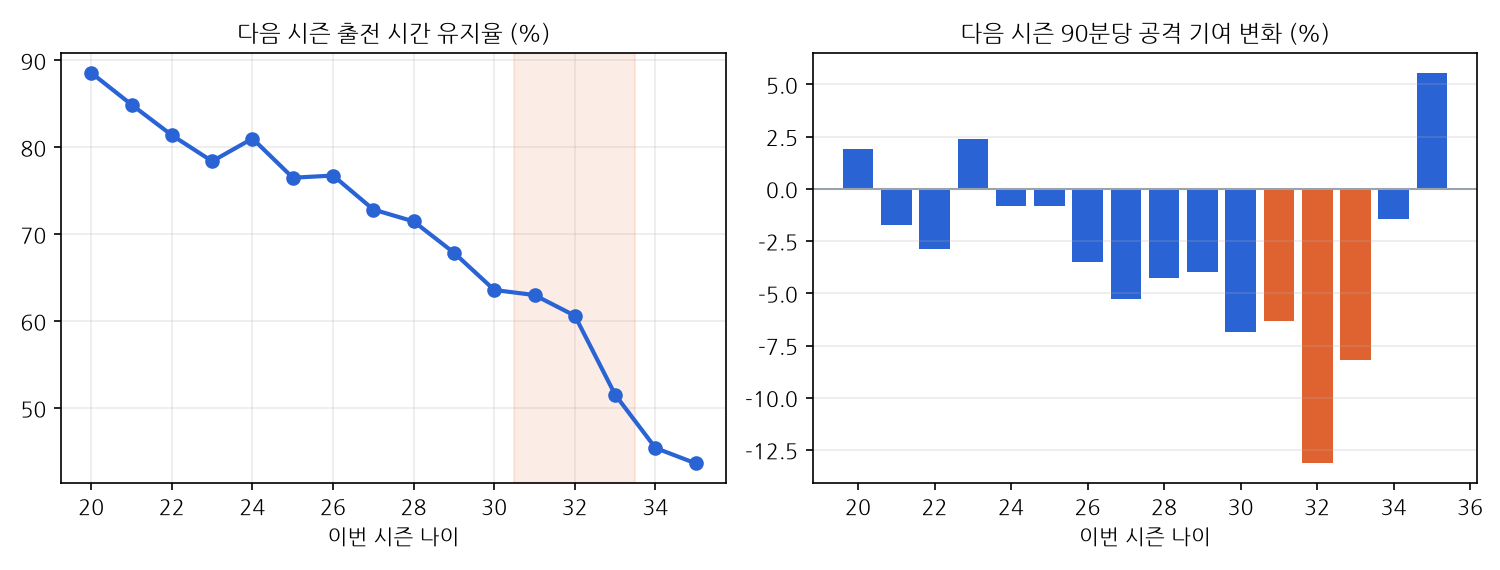
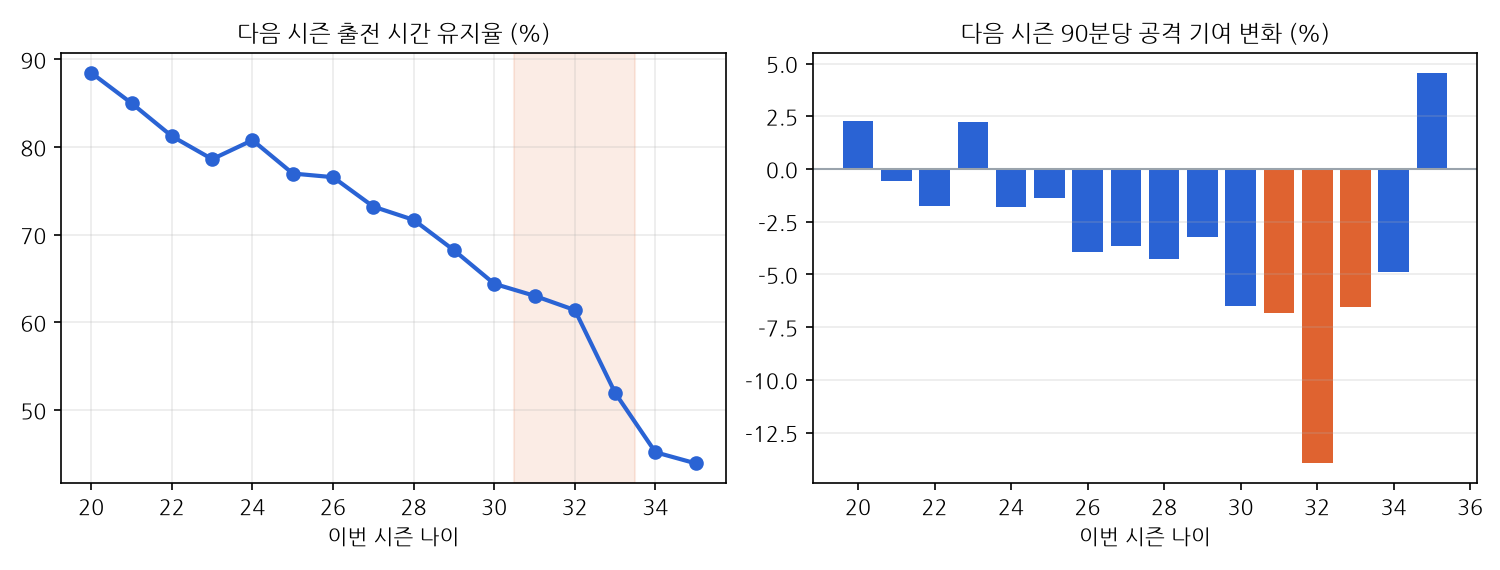
셈법 스카우트 v0 (원칙 3 선발 규칙 과거 검증) + 나이 표기 버그 수정
- 2023/24부터 나이가 '29-123'(세-일) 표기라 숫자 변환에 실패해 그 시즌이 빠지던 버그를 세 분석 모두 수정 후 재실행
- 재실행으로 포지션별 노화 P3가 '맞음'에서 '불확실'로 바뀜 (장부에 새 줄로 기록, 이전 줄 유지)
- 스카우트 v0: 베테랑 규칙은 다음 시즌 1500분+ 61% vs 기준선 42% (맞음), 역할 상위 절반 유지 46% vs 13% (맞음, 지표 지속성 효과 포함),
  2시즌 뒤·유망주 출전은 불확실, 유망주 '더 강한 팀으로'는 틀림

Claude-Session: https://claude.ai/code/session_01F2Dj6M9WfX1Bg9mjT3ipLz

diff --git a/llm-reliability/scout_v0.py b/llm-reliability/scout_v0.py
@@ -1,0 +1,139 @@
+"""셈법 스카우트 v0: 원칙 3 선발 규칙을 과거 시즌으로 검증 (블룸 방식 1단계).
+
+    python scout_v0.py    # data_cache/fbref/{big5_player_standard,big5_player_defense,big5_team_standard}.rds 필요
+                          # → output/football/scout_v0.md
+
+규칙은 실행 전에 장부에 고정 (kind=football_hypothesis, key=scout_v0_rules). 원자료는 레포에 올리지 않음 (Opta/Stats Perform 권리).
+"""
+from __future__ import annotations
+
+from pathlib import Path
+
+import numpy as np
+import pandas as pd
+import pyreadr
+
+from llmrel import ledger
+
+ROOT = Path(__file__).parent
+C = ROOT / "data_cache" / "fbref"
+OUT = ROOT / "output" / "football"
+FIRST, LAST = 2018, 2024          # 선발 시즌 (끝나는 해). 다음 시즌 채점은 2025까지
+MIN_T = 1500
+
+
+def rd(name: str) -> pd.DataFrame:
+    return pyreadr.read_r(C / f"{name}.rds")[None]
+
+
+def team_strength() -> pd.DataFrame:
+    t = rd("big5_team_standard")
+    t = t[t.Season_End_Year >= FIRST]
+    w = t.pivot_table(index=["Season_End_Year", "Comp", "Squad"], columns="Team_or_Opponent", values="npxG_Expected").reset_index()
+    w["diff"] = w["team"] - w["opponent"]
+    w["str_pct"] = w.groupby(["Season_End_Year", "Comp"])["diff"].rank(pct=True)
+    return w[["Season_End_Year", "Squad", "str_pct"]]
+
+
+def player_seasons() -> pd.DataFrame:
+    s = rd("big5_player_standard")
+    d = rd("big5_player_defense")[["Url", "Season_End_Year", "Squad", "Tkl+Int"]]
+    s = s[(s.Season_End_Year >= FIRST) & s.Url.notna()].merge(d, on=["Url", "Season_End_Year", "Squad"], how="left")
+    s["contrib"] = s.npxG_Expected.fillna(0) + s.xAG_Expected.fillna(0)
+    s = s.merge(team_strength(), on=["Season_End_Year", "Squad"], how="left")
+    s = s.sort_values("Min_Playing", ascending=False)
+    g = s.groupby(["Url", "Season_End_Year"]).agg(player=("Player", "first"), age=("Age", "min"), pos=("Pos", "first"),
+                                                 squad=("Squad", "first"), comp=("Comp", "first"), minutes=("Min_Playing", "sum"),
+                                                 prgp=("PrgP_Progression", "sum"), tklint=("Tkl+Int", "sum"), contrib=("contrib", "sum"),
+                                                 str_pct=("str_pct", "first")).reset_index()   # 이적 시즌: 가장 많이 뛴 팀 기준
+    g["age"] = pd.to_numeric(g.age.astype(str).str.split("-").str[0], errors="coerce")   # 2023/24부터 "29-123"(세-일) 표기
+    g["pg"] = g.pos.fillna("").str.split(",").str[0]
+    g = g[g.pg.isin(["DF", "MF", "FW"])]
+    per90 = g.minutes / 90
+    g["role"] = np.select([g.pg == "DF", g.pg == "MF"], [g.tklint / per90, g.prgp / per90], g.contrib / per90)
+    reg = g[g.minutes >= MIN_T].copy()
+    reg["role_pct"] = reg.groupby(["Season_End_Year", "pg"]).role.rank(pct=True)
+    return g.merge(reg[["Url", "Season_End_Year", "role_pct"]], on=["Url", "Season_End_Year"], how="left")
+
+
+def build() -> pd.DataFrame:
+    g = player_seasons()
+    nxt = g[["Url", "Season_End_Year", "minutes", "role_pct", "str_pct"]].rename(columns=lambda c: c if c in ("Url", "Season_End_Year") else c + "_1")
+    nxt["Season_End_Year"] -= 1
+    nx2 = g[["Url", "Season_End_Year", "minutes"]].rename(columns={"minutes": "minutes_2"})
+    nx2["Season_End_Year"] -= 2
+    p = g[(g.Season_End_Year <= LAST) & (g.minutes >= MIN_T)].merge(nxt, on=["Url", "Season_End_Year"], how="left").merge(nx2, on=["Url", "Season_End_Year"], how="left")
+    p["minutes_1"] = p.minutes_1.fillna(0)
+    p["O1"] = p.minutes_1 >= MIN_T
+    p["O3"] = p.role_pct_1 >= 0.5                                   # 다음 시즌 1500분 미만이면 백분위 없음 → 실패로 셈
+    p["O4"] = np.where(p.Season_End_Year + 2 <= 2025, p.minutes_2.fillna(0) >= MIN_T, np.nan)
+    p["O2"] = p.str_pct_1 > p.str_pct
+    p["bottom"] = p.str_pct <= 0.5
+    p["V"] = p.age.between(29, 31) & p.bottom & (p.role_pct >= 0.75)
+    p["Y"] = (p.age <= 22) & p.bottom & (p.role_pct >= 0.75)
+    p["Vb"] = p.age.between(29, 31) & p.bottom & (p.role_pct < 0.75)
+    p["Yb"] = (p.age <= 22) & p.bottom & (p.role_pct < 0.75)
+    return p
+
+
+def diff_ci(a: np.ndarray, b: np.ndarray, n: int = 3000, seed: int = 0):
+    rng = np.random.default_rng(seed)
+    d = [a[rng.integers(0, len(a), len(a))].mean() - b[rng.integers(0, len(b), len(b))].mean() for _ in range(n)]
+    return a.mean(), b.mean(), float(np.percentile(d, 2.5)), float(np.percentile(d, 97.5))
+
+
+def main():
+    p = build()
+    tests = [("S1", "V", "Vb", "O1", "베테랑 다음 시즌 1500분+"), ("S2", "V", "Vb", "O3", "베테랑 다음 시즌 역할 상위 절반"),
+             ("S3", "V", "Vb", "O4", "베테랑 2시즌 뒤에도 1500분+"), ("S4", "Y", "Yb", "O1", "유망주 다음 시즌 1500분+"),
+             ("S5", "Y", "Yb", "O2", "유망주 더 강한 팀으로 (팀 순위 백분위 상승)")]
+    rows, res = [], {}
+    for key, sel, base, out, label in tests:
+        a = p[p[sel]][out].dropna().astype(float).to_numpy()
+        b = p[p[base]][out].dropna().astype(float).to_numpy()
+        ma, mb, lo, hi = diff_ci(a, b)
+        v = "맞음" if lo > 0 else ("틀림" if hi <= 0 else "불확실")
+        res[key] = dict(selected=round(ma, 4), baseline=round(mb, 4), n=[len(a), len(b)], ci=[round(lo, 4), round(hi, 4)], verdict=v)
+        rows.append(f"| {key} | {label} | {ma:.0%} (n={len(a)}) | {mb:.0%} (n={len(b)}) | {ma - mb:+.1%}p ({lo:+.1%} ~ {hi:+.1%}) | {v} |")
+    ledger.append([dict(kind="football_result", key="scout_v0", payload=res, model="scout_v0", evidence="fbref 5대 리그 2017/18~2024/25 과거 검증")])
+    # 포지션별 베테랑 (원칙: 조율·수비 역할)
+    pos = []
+    for pg in ["DF", "MF", "FW"]:
+        a = p[p.V & (p.pg == pg)]; b = p[p.Vb & (p.pg == pg)]
+        pos.append(f"| {pg} | {a.O1.mean():.0%} / {a.O3.mean():.0%} (n={len(a)}) | {b.O1.mean():.0%} / {b.O3.mean():.0%} (n={len(b)}) |")
+    ex = p[p.V & (p.Season_End_Year == LAST)].sort_values("role_pct", ascending=False).head(8)
+    exl = "\n".join(f"| {r.player} | {int(r.age)} | {r.pg} | {r.squad} | {r.role_pct:.0%} | {'✔' if r.O1 else '✘'} | {'✔' if r.O3 else '✘'} |" for r in ex.itertuples())
+    OUT.mkdir(parents=True, exist_ok=True)
+    (OUT / "scout_v0.md").write_text(f"""# 셈법 스카우트 v0: 원칙 3 선발 규칙 과거 검증
+
+선발 시즌 2017/18~2023/24 (5대 리그, 1500분+), 다음 시즌 2024/25까지 채점. 규칙은 실행 전 장부 고정.
+- 역할 지표 (90분당, 시즌·포지션 내 백분위): DF 태클+가로채기, MF 전진 패스, FW npxG+xAG
+- '쌀 가능성' 대리: 소속팀이 리그 기대득점 차이 하위 절반
+- 선발: 베테랑 29~31세 / 유망주 22세 이하, 역할 백분위 75 이상 + 하위 절반 팀
+- 기준선: 같은 나이·하위 절반 팀·1500분+ 이면서 역할 백분위 75 미만
+
+## 판정
+| 가설 | 결과 지표 | 선발군 | 기준선 | 차이 (95%) | 판정 |
+|---|---|---|---|---|---|
+{chr(10).join(rows)}
+
+## 베테랑 포지션별 (다음 시즌 1500분+ / 역할 상위 절반)
+| 포지션 | 선발군 | 기준선 |
+|---|---|---|
+{chr(10).join(pos)}
+
+## 예: 2023/24 시즌 끝 규칙이 고른 베테랑 (2024/25 채점)
+| 선수 | 나이 | 포지션 | 소속 | 역할 백분위 | 다음 시즌 1500분+ | 역할 상위 절반 유지 |
+|---|---|---|---|---|---|---|
+{exl}
+
+## 한계
+- 가격(이적료·연봉) 없음: '하위 절반 팀'은 쌀 가능성의 대리일 뿐
+- 기준선보다 낫다는 건 '이 규칙이 정보가 있다'는 뜻이지 '이적 시장에서 이익'은 아님
+- 역할 지표가 높은 선수는 다음 시즌 평균 쪽으로 돌아오는 경향(평균 회귀)이 있음 → O3는 보수적으로 해석
+""", encoding="utf-8")
+    print((OUT / "scout_v0.md").read_text())
+
+
+if __name__ == "__main__":
+    main()

diff --git a/llm-reliability/football_position_aging.py b/llm-reliability/football_position_aging.py
@@ -30,7 +30,7 @@ def load() -> pd.DataFrame:
                                                  contrib=("contrib", "sum"), prgp=("PrgP_Progression", "sum"),
                                                  has_xg=("npxG_Expected", lambda s: s.notna().all()),
                                                  has_prg=("PrgP_Progression", lambda s: s.notna().all())).reset_index()
-    g["age"] = pd.to_numeric(g.age, errors="coerce")
+    g["age"] = pd.to_numeric(g.age.astype(str).str.split("-").str[0], errors="coerce")   # 2023/24부터 "29-123"(세-일) 표기
     g["grp"] = np.select([g.pos == "MF", g.pos.fillna("").str.contains("FW")], ["MF", "FW·측면"], "기타")
     nxt = g[["Url", "Season_End_Year", "minutes", "contrib", "prgp", "has_xg", "has_prg"]].copy()
     nxt["Season_End_Year"] -= 1

diff --git a/llm-reliability/football_aging.py b/llm-reliability/football_aging.py
@@ -37,7 +37,7 @@ def seasons() -> pd.DataFrame:
     d["has_xg"] = d.npxG_Expected.notna()
     g = d.groupby(["Url", "Season_End_Year"]).agg(player=("Player", "first"), age=("Age", "min"), pos=("pos", "first"),
                                                  minutes=("Min_Playing", "sum"), contrib=("contrib", "sum"), has_xg=("has_xg", "all")).reset_index()
-    g["age"] = pd.to_numeric(g.age, errors="coerce")
+    g["age"] = pd.to_numeric(g.age.astype(str).str.split("-").str[0], errors="coerce")   # 2023/24부터 "29-123"(세-일) 표기
     return g
 
 

diff --git a/llm-reliability/output/football/scout_v0.md b/llm-reliability/output/football/scout_v0.md
@@ -1,0 +1,40 @@
+# 셈법 스카우트 v0: 원칙 3 선발 규칙 과거 검증
+
+선발 시즌 2017/18~2023/24 (5대 리그, 1500분+), 다음 시즌 2024/25까지 채점. 규칙은 실행 전 장부 고정.
+- 역할 지표 (90분당, 시즌·포지션 내 백분위): DF 태클+가로채기, MF 전진 패스, FW npxG+xAG
+- '쌀 가능성' 대리: 소속팀이 리그 기대득점 차이 하위 절반
+- 선발: 베테랑 29~31세 / 유망주 22세 이하, 역할 백분위 75 이상 + 하위 절반 팀
+- 기준선: 같은 나이·하위 절반 팀·1500분+ 이면서 역할 백분위 75 미만
+
+## 판정
+| 가설 | 결과 지표 | 선발군 | 기준선 | 차이 (95%) | 판정 |
+|---|---|---|---|---|---|
+| S1 | 베테랑 다음 시즌 1500분+ | 61% (n=90) | 42% (n=572) | +18.8%p (+7.6% ~ +29.3%) | 맞음 |
+| S2 | 베테랑 다음 시즌 역할 상위 절반 | 46% (n=90) | 13% (n=572) | +32.8%p (+22.1% ~ +44.0%) | 맞음 |
+| S3 | 베테랑 2시즌 뒤에도 1500분+ | 32% (n=74) | 29% (n=495) | +3.1%p (-7.6% ~ +14.4%) | 불확실 |
+| S4 | 유망주 다음 시즌 1500분+ | 54% (n=121) | 52% (n=480) | +2.1%p (-7.9% ~ +12.0%) | 불확실 |
+| S5 | 유망주 더 강한 팀으로 (팀 순위 백분위 상승) | 45% (n=121) | 58% (n=480) | -12.7%p (-22.0% ~ -2.5%) | 틀림 |
+
+## 베테랑 포지션별 (다음 시즌 1500분+ / 역할 상위 절반)
+| 포지션 | 선발군 | 기준선 |
+|---|---|---|
+| DF | 57% / 40% (n=63) | 46% / 12% (n=249) |
+| MF | 65% / 65% (n=23) | 37% / 12% (n=201) |
+| FW | 100% / 25% (n=4) | 43% / 14% (n=122) |
+
+## 예: 2023/24 시즌 끝 규칙이 고른 베테랑 (2024/25 채점)
+| 선수 | 나이 | 포지션 | 소속 | 역할 백분위 | 다음 시즌 1500분+ | 역할 상위 절반 유지 |
+|---|---|---|---|---|---|---|
+| Frederic Guilbert | 29 | DF | Strasbourg | 100% | ✔ | ✔ |
+| Kevin Stöger | 30 | MF | Bochum | 98% | ✔ | ✔ |
+| Bernardo | 29 | DF | Bochum | 98% | ✔ | ✘ |
+| Emerson Palmieri | 29 | DF | West Ham | 96% | ✔ | ✔ |
+| Bruno Fernandes | 29 | MF | Manchester Utd | 96% | ✔ | ✔ |
+| José Luis Gayà | 29 | DF | Valencia | 94% | ✔ | ✘ |
+| Corentin Tolisso | 29 | MF | Lyon | 92% | ✔ | ✔ |
+| Patrick Mainka | 29 | DF | Heidenheim | 92% | ✔ | ✘ |
+
+## 한계
+- 가격(이적료·연봉) 없음: '하위 절반 팀'은 쌀 가능성의 대리일 뿐
+- 기준선보다 낫다는 건 '이 규칙이 정보가 있다'는 뜻이지 '이적 시장에서 이익'은 아님
+- 역할 지표가 높은 선수는 다음 시즌 평균 쪽으로 돌아오는 경향(평균 회귀)이 있음 → O3는 보수적으로 해석

diff --git a/llm-reliability/output/football/aging.md b/llm-reliability/output/football/aging.md
@@ -6,9 +6,9 @@
 ## 가설 판정
 | 가설 | 결과 | 판정 |
 |---|---|---|
-| H1 31~33세 90분당 기여 하락 10% 미만 (자신감 60%) | -8.9% (95% -12.8% ~ -5.0%), n=310 | 불확실 (점추정은 가설 쪽) |
-| H2 출전 유지율이 25~29세보다 20%p 이상 낮음 (자신감 70%) | 유지율 차이 +13.9%p (95% +11.5% ~ +16.2%), 31~33세 60% vs 25~29세 73% | 틀림 |
-| H3 31~32세 하락이 25~29세와 5%p 이내 (자신감 50%) | 하락 차이 +5.6%p (95% +0.7% ~ +10.2%) | 불확실 (점추정은 반대쪽) |
+| H1 31~33세 90분당 기여 하락 10% 미만 (자신감 60%) | -9.0% (95% -12.5% ~ -5.4%), n=368 | 불확실 (점추정은 가설 쪽) |
+| H2 출전 유지율이 25~29세보다 20%p 이상 낮음 (자신감 70%) | 유지율 차이 +13.7%p (95% +11.4% ~ +16.0%), 31~33세 60% vs 25~29세 74% | 틀림 |
+| H3 31~32세 하락이 25~29세와 5%p 이내 (자신감 50%) | 하락 차이 +6.5%p (95% +2.2% ~ +10.6%) | 불확실 (점추정은 반대쪽) |
 
 - 다음 시즌 5대 리그에서 사라진 비율: 31~33세 26%, 25~29세 17% (은퇴·하부 리그·해외 이적 포함, 실력 하락만은 아님)
 
@@ -17,22 +17,22 @@
 ## 나이별
 | 나이 | 선수-시즌 | 다음 시즌 출전 유지율 | 90분당 표본 | 90분당 기여 변화 |
 |---|---|---|---|---|
-| 20 | 826 | 89% | 193 | +1.9% |
-| 21 | 1207 | 85% | 273 | -1.7% |
-| 22 | 1562 | 81% | 329 | -2.9% |
-| 23 | 1747 | 78% | 357 | +2.4% |
-| 24 | 1922 | 81% | 391 | -0.8% |
-| 25 | 1972 | 77% | 367 | -0.8% |
-| 26 | 1900 | 77% | 355 | -3.5% |
-| 27 | 1809 | 73% | 332 | -5.3% |
-| 28 | 1658 | 71% | 290 | -4.3% |
-| 29 | 1490 | 68% | 244 | -4.0% |
-| 30 | 1261 | 64% | 201 | -6.8% |
-| 31 | 965 | 63% | 147 | -6.3% |
-| 32 | 705 | 61% | 95 | -13.1% |
-| 33 | 516 | 52% | 68 | -8.2% |
-| 34 | 327 | 45% | 42 | -1.4% |
-| 35 | 181 | 44% | 25 | +5.6% |
+| 20 | 863 | 88% | 212 | +2.3% |
+| 21 | 1278 | 85% | 307 | -0.6% |
+| 22 | 1669 | 81% | 381 | -1.8% |
+| 23 | 1864 | 79% | 411 | +2.2% |
+| 24 | 2060 | 81% | 450 | -1.8% |
+| 25 | 2100 | 77% | 420 | -1.4% |
+| 26 | 2050 | 77% | 419 | -3.9% |
+| 27 | 1953 | 73% | 397 | -3.6% |
+| 28 | 1763 | 72% | 333 | -4.2% |
+| 29 | 1598 | 68% | 289 | -3.2% |
+| 30 | 1350 | 64% | 237 | -6.5% |
+| 31 | 1054 | 63% | 171 | -6.8% |
+| 32 | 765 | 61% | 115 | -14.0% |
+| 33 | 553 | 52% | 82 | -6.6% |
+| 34 | 364 | 45% | 51 | -4.9% |
+| 35 | 199 | 44% | 32 | +4.6% |
 
 ## 한계
 - 다음 시즌에도 뛴 선수만 90분당 변화를 잴 수 있음 → 크게 떨어진 선수는 빠졌을 수 있어 하락이 덜 보일 수 있음 (생존자 편향)
